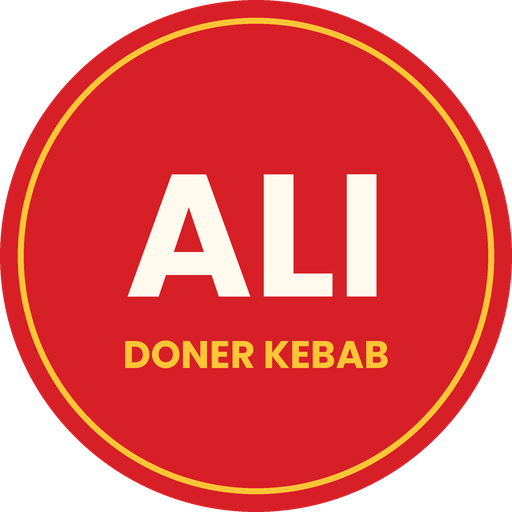
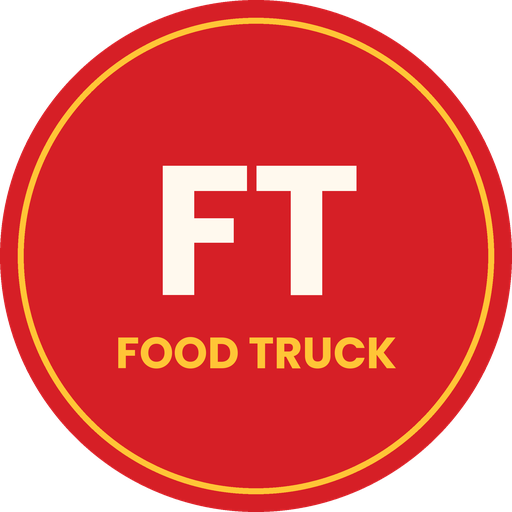
Add files via upload

Changed region(s): [[0.25, 0.3125, 0.75, 0.5938], [0.2188, 0.6562, 0.7812, 0.7188]]

diff --git a/index.html b/index.html
@@ -3,12 +3,12 @@
 <head>
 <meta charset="utf-8">
 <meta name="viewport" content="width=device-width, initial-scale=1, maximum-scale=1, viewport-fit=cover">
-<title>Ali Doner Mesa</title>
+<title>Food Truck Mesa</title>
 <meta name="theme-color" content="#17110f">
 <meta name="apple-mobile-web-app-capable" content="yes">
 <meta name="mobile-web-app-capable" content="yes">
 <meta name="apple-mobile-web-app-status-bar-style" content="black-translucent">
-<meta name="apple-mobile-web-app-title" content="Ali Mesa">
+<meta name="apple-mobile-web-app-title" content="FT Mesa">
 <link rel="manifest" href="manifest.json">
 <link rel="apple-touch-icon" href="apple-touch-icon.png">
 <link rel="icon" href="icon-192-any.png">
@@ -52,7 +52,7 @@
       <rect x="0" y="322" width="220" height="5" fill="#ffb627"/>
       <rect x="0" y="384" width="220" height="10" fill="#e5322a"/>
     </g>
-    <text x="110" y="366" text-anchor="middle" font-family="Big Shoulders Display, Impact, sans-serif" font-weight="900" font-size="34" fill="#e5322a" letter-spacing="2">ALI</text>
+    <text x="110" y="366" text-anchor="middle" font-family="Big Shoulders Display, Impact, sans-serif" font-weight="900" font-size="34" fill="#e5322a" letter-spacing="1">FOOD</text>
   </symbol>
 
   <symbol id="box" viewBox="0 0 200 230">
@@ -89,7 +89,7 @@
 
 <div class="app" id="app">
   <header class="bar">
-    <div class="logo"><span class="mk">ALI</span><span><b>Ali Doner</b><small data-t="halal">100% halal</small></span></div>
+    <div class="logo"><span class="mk">FT</span><span><b>Food Truck</b><small data-t="halal">100% halal</small></span></div>
     <span class="demo-chip" id="demo-chip" hidden>DEMO</span>
     <button class="pill" id="btn-waiter" type="button"><svg viewBox="0 0 24 24" fill="none" stroke="currentColor" stroke-width="2" stroke-linecap="round"><path d="M6 15a6 6 0 0 1 12 0"/><path d="M4 18h16"/><path d="M12 9V7"/><circle cx="12" cy="5.5" r="1.2"/></svg><span class="t" data-t="callWaiter">Llamar al camarero</span></button>
     <button class="pill" id="btn-bill" type="button"><svg viewBox="0 0 24 24" fill="none" stroke="currentColor" stroke-width="2" stroke-linecap="round"><path d="M6 3h12v18l-3-2-3 2-3-2-3 2z"/><path d="M9 8h6M9 12h6"/></svg><span class="t" data-t="askBill">Pedir la cuenta</span></button>

diff --git a/js/mesa.js b/js/mesa.js
@@ -1,11 +1,11 @@
-/* Lógica de la tablet de mesa · Ali Doner Kebab (no hace falta tocar nada aquí) */
+/* Lógica de la tablet de mesa · Food Truck (no hace falta tocar nada aquí) */
 /* ===================== ESTADO ===================== */
 const store = {
   get(k, d){ try{ const v = localStorage.getItem(k); return v === null ? d : v; }catch(e){ return d; } },
   set(k, v){ try{ localStorage.setItem(k, v); }catch(e){} }
 };
 let lang = 0;                                   // índice en LANGS
-let table = parseInt(store.get("ali_mesa_table", "1"), 10) || 1;
+let table = parseInt(store.get("ft_mesa_table", "1"), 10) || 1;
 let cart = [];                                  // { key, id, opt, qty, note }
 let ordered = {};                               // lo que ya hay en la comanda de esta mesa
 let db = null, online = false, demo = false;
@@ -320,7 +320,7 @@ function openAdmin(){
       if(pin.length === 4){ if(pin === ADMIN_PIN) return drawTables(); pin = ""; toast("PIN ✕"); }
       drawPin();
     } else if(b.dataset.tb){
-      table = +b.dataset.tb; store.set("ali_mesa_table", String(table));
+      table = +b.dataset.tb; store.set("ft_mesa_table", String(table));
       document.getElementById("table-num").textContent = table; ordered = {}; listenTable(); renderTicket(); drawTables();
     } else if(b.hasAttribute("data-fs")){
       const d = document.documentElement; (d.requestFullscreen ? d.requestFullscreen() : Promise.reject()).catch(() => {});

diff --git a/js/config.js b/js/config.js
@@ -1,5 +1,5 @@
 /* =====================================================================
-   CONFIGURACIÓN DE LA TABLET DE MESA · Ali Doner Kebab
+   CONFIGURACIÓN DE LA TABLET DE MESA · Food Truck
    Firebase tiene que ser EL MISMO que en la app de Cocina y Caja (pedidos/cocina-caja/js/config.js).
    Los platos, precios e idiomas están en js/menu-data.js
    ===================================================================== */
@@ -12,7 +12,7 @@ const FIREBASE_CONFIG = {
   messagingSenderId: "490070778149",
   appId: "1:490070778149:web:6fc91223d6fe9f04697acc"
 };
-const DB_ROOT = "alidoner/";          // igual que la app de Cocina y Caja
+const DB_ROOT = "foodtruck/";          // igual que la app de Cocina y Caja
 const SESSION = "sala";               // igual que la app de Cocina y Caja
 const ADMIN_PIN = "1234";             // para cambiar el número de mesa (toca 5 veces el número de mesa)
 const NUM_TABLES = 10;

diff --git a/css/mesa.css b/css/mesa.css
@@ -1,4 +1,4 @@
-/* Estilos de la tablet de mesa · Ali Doner Kebab */
+/* Estilos de la tablet de mesa · Food Truck */
 
 /* Layout: tablet kiosk in the website's "night market" look — category rail | dish cards | live order ticket. Under 1000px the rail becomes a chip bar and the order becomes a bottom sheet. */
 :root{
